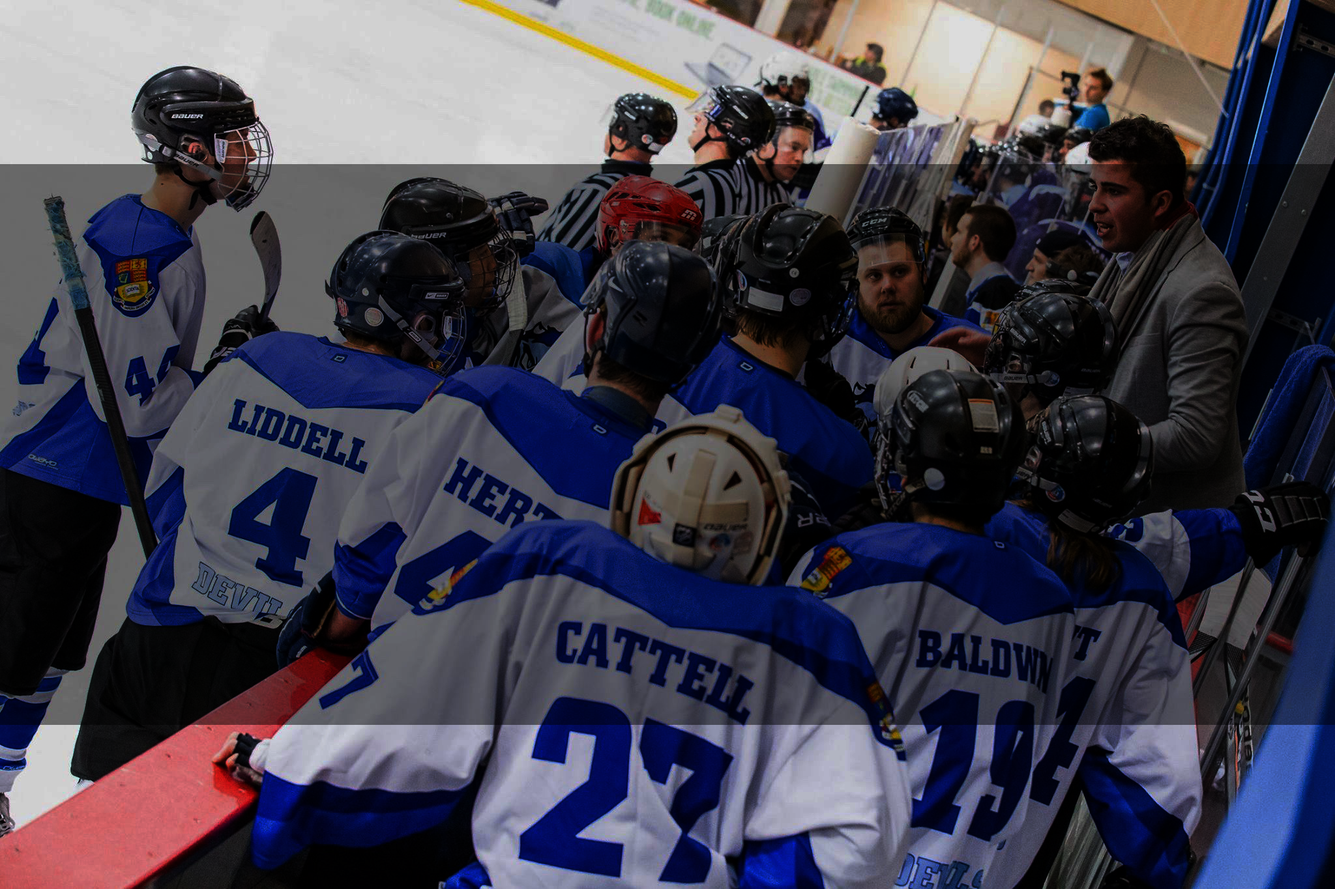
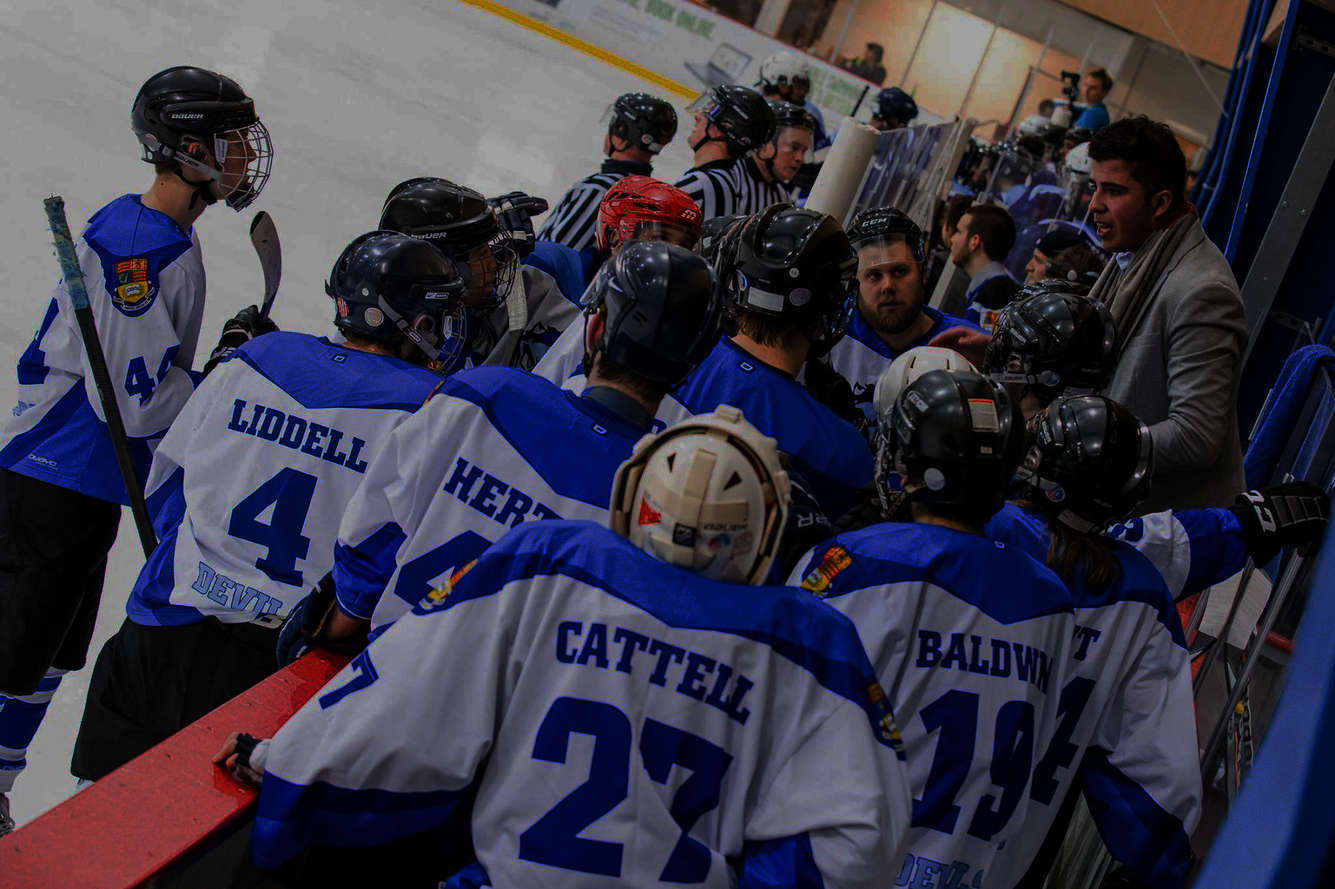
[cw1] Correcting header image

diff --git a/Coursework 1/src/master/www/web/static/css/one-page-wonder.css b/Coursework 1/src/master/www/web/static/css/one-page-wonder.css
@@ -78,7 +78,7 @@ h6 {
   display: table;
   width: 100%;
   height: auto;
-  padding: 200px 0;
+
   text-align: center;
   color: white;
   background: url("../img/header.png") no-repeat bottom center scroll;
